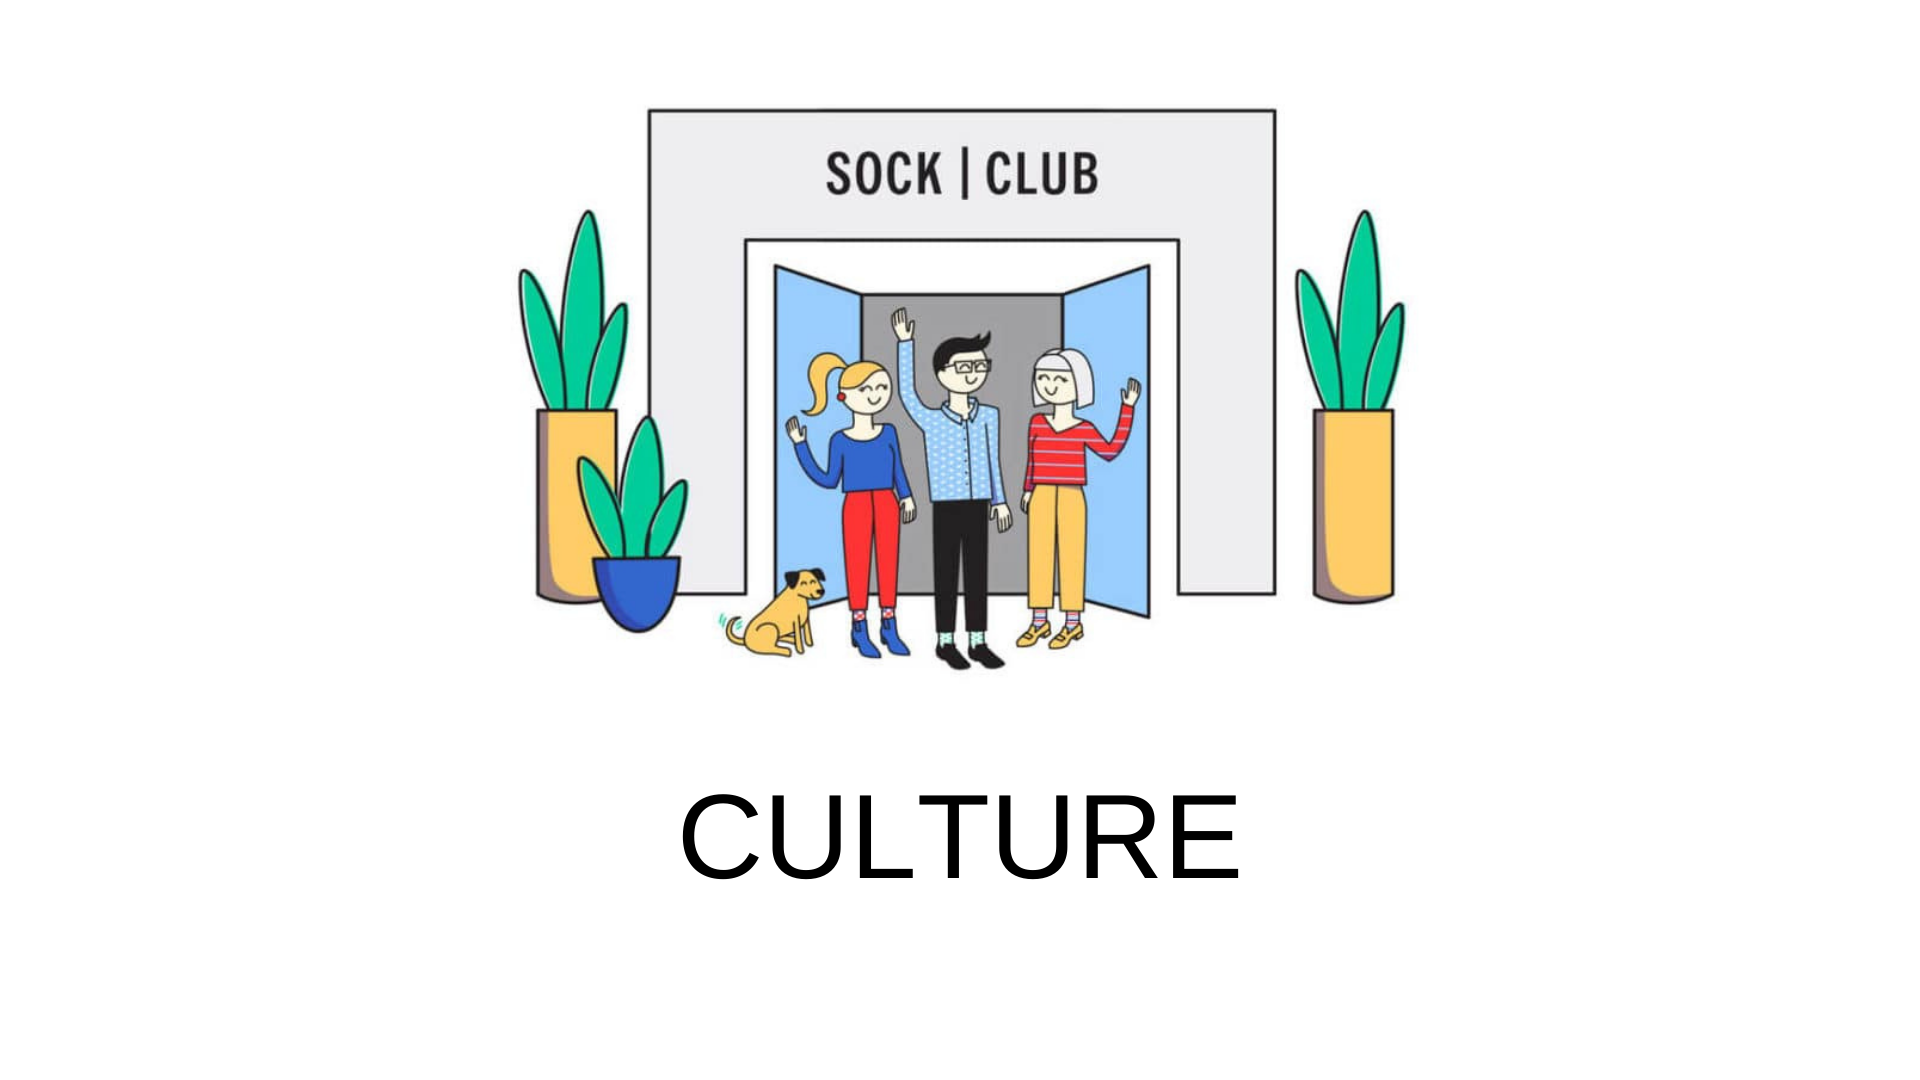
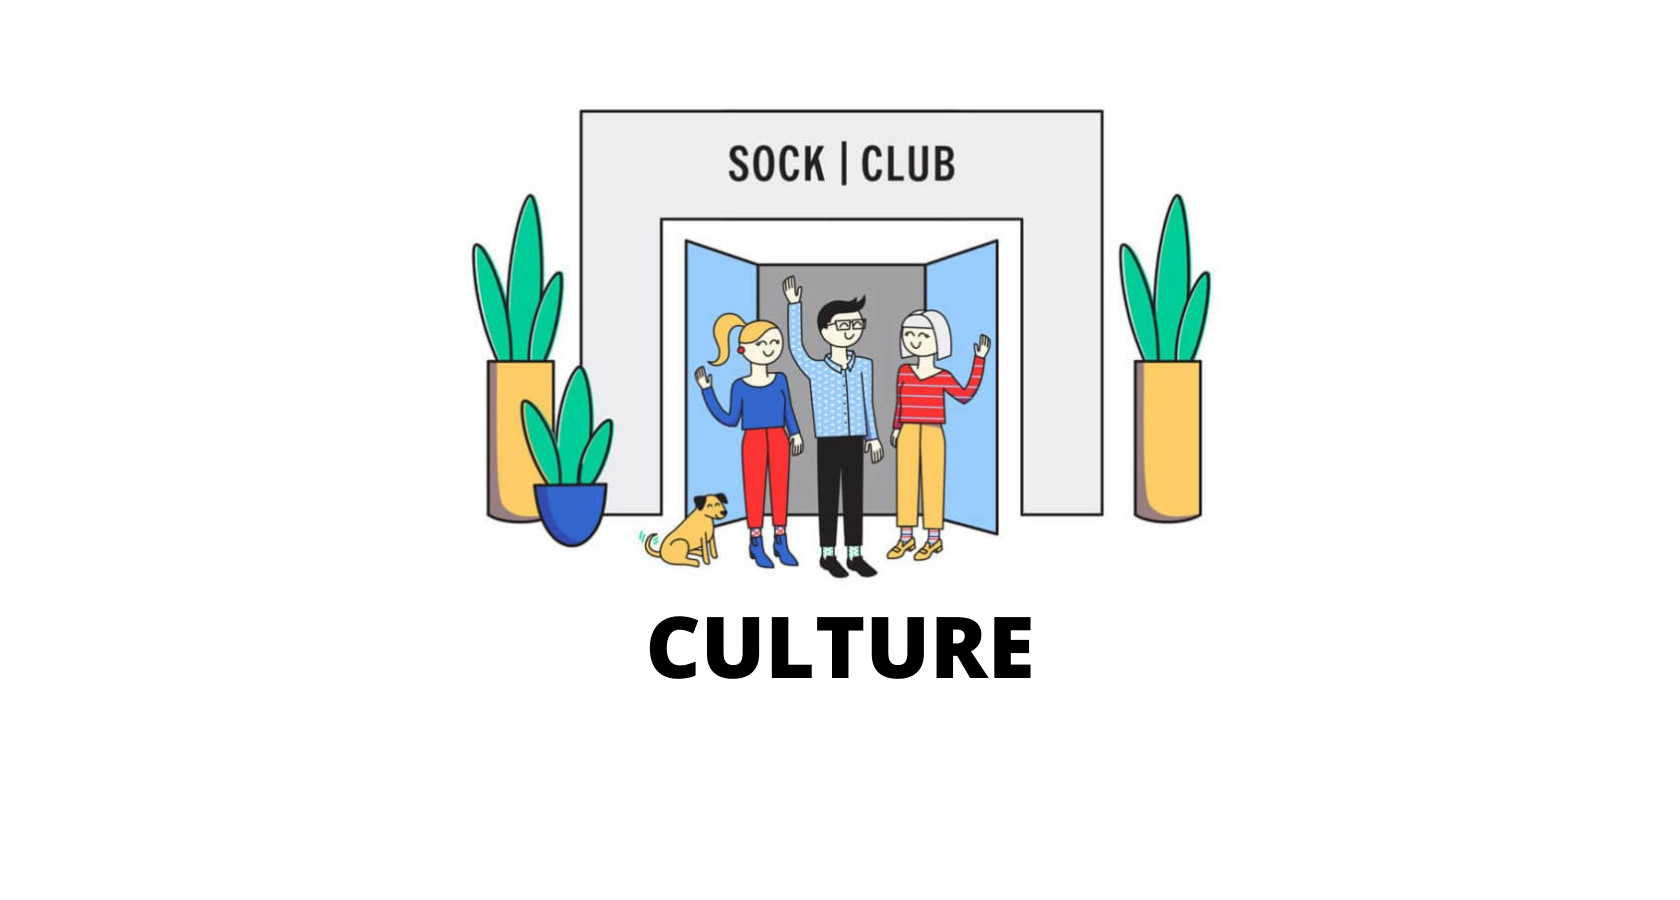
fixing aspect ratio

Changed region(s): [[0.2476, 0.0933, 0.7429, 0.6533], [0.3405, 0.6844, 0.65, 0.84]]

diff --git a/index.html b/index.html
@@ -98,7 +98,7 @@
         </div>
         <div class="col">
           <div class="card shadow-sm">
-            <img src="assets/culture.png">
+            <img src="assets/CULTURE.png" height="225">
 
             <div class="card-body">
               <p class="card-text">This is a wider card with supporting text below as a natural lead-in to additional content. This content is a little bit longer.</p>
